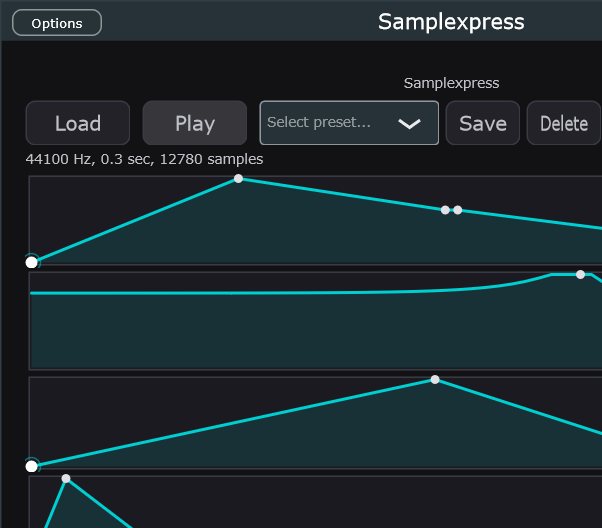
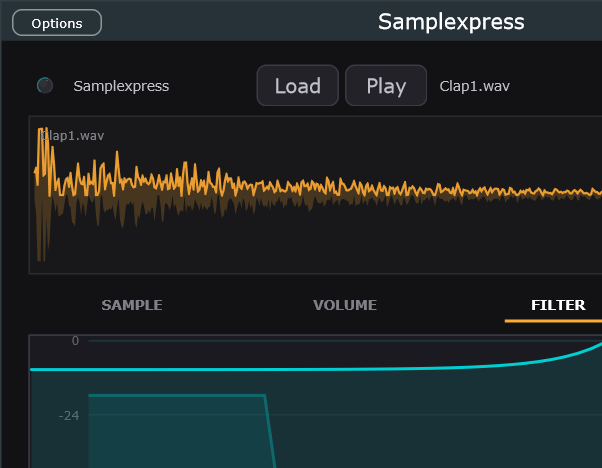
Update screenshots to reflect current Ableton-inspired UI
- Replace outdated screenshots showing old UI with new captures

- Update README captions to match the new waveform/tab bar/spectrum layout

diff --git a/README.md b/README.md
@@ -18,10 +18,10 @@ A JUCE-based sample player plugin inspired by Ableton Simpler's Classic Mode. Lo
 ## Screenshots
 
 ![Main UI](docs/screenshot_main.png)
-*Main interface: waveform display, tab bar, ADSR displays, and filter response with spectrum behind*
+*Main interface: orange waveform display, tab bar, and active FILTER tab with filter response curve. The spectrum analyzer is visible in the background.*
 
 ![Spectrum Analyzer](docs/screenshot_spectrum.png)
-*Real-time spectrum analyzer visible behind tab content with frequency (Hz) and amplitude (dB) axes*
+*Spectrum analyzer visible behind tab content, showing real-time frequency content as you shape the sound.*
 
 ## Build Requirements
 